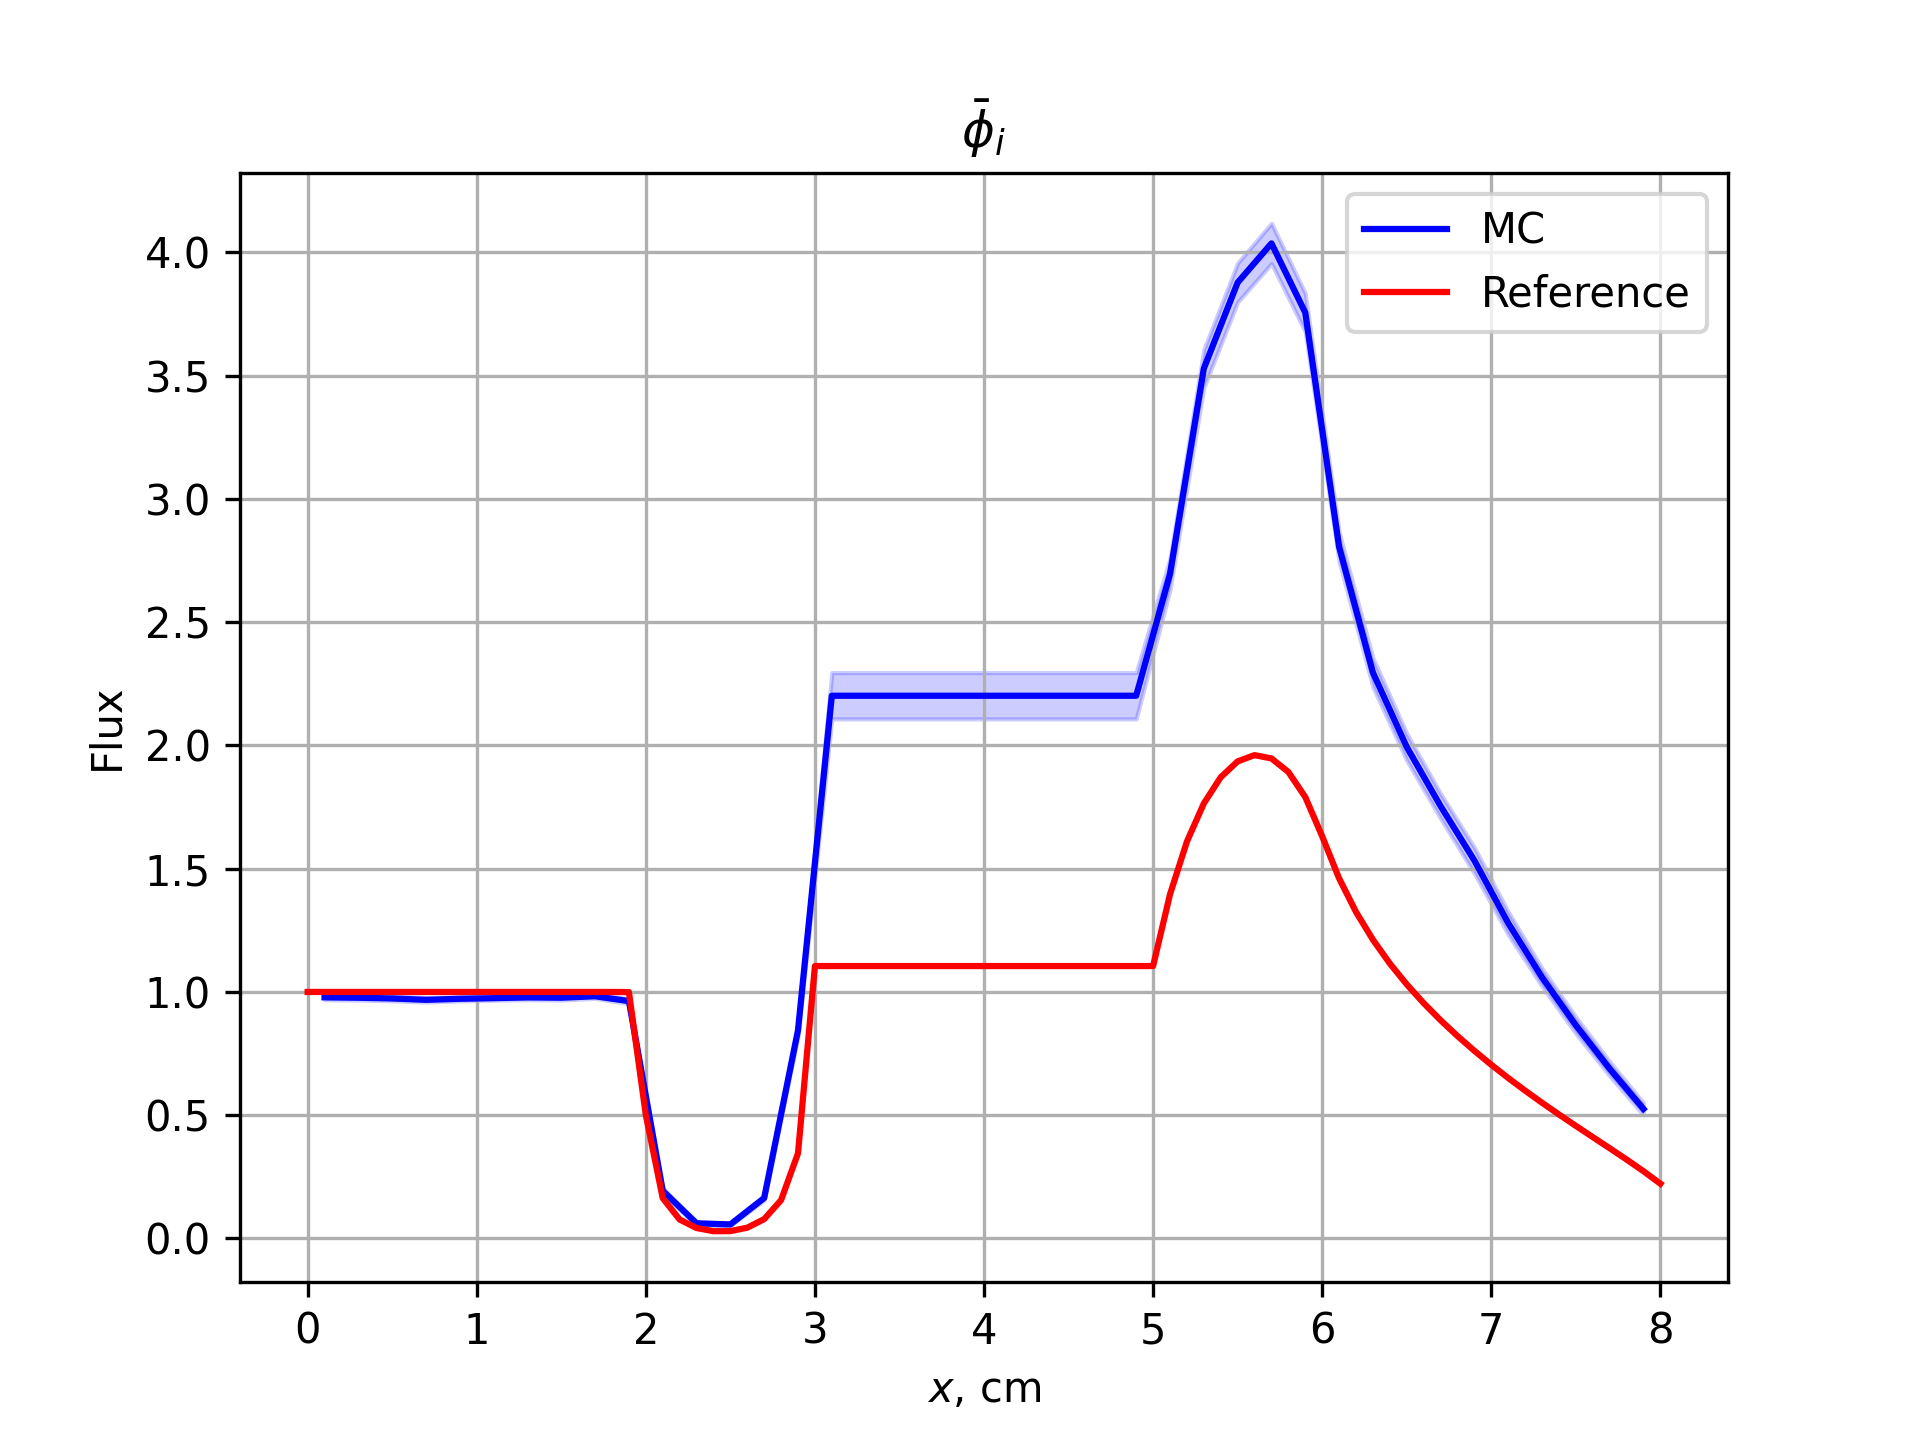
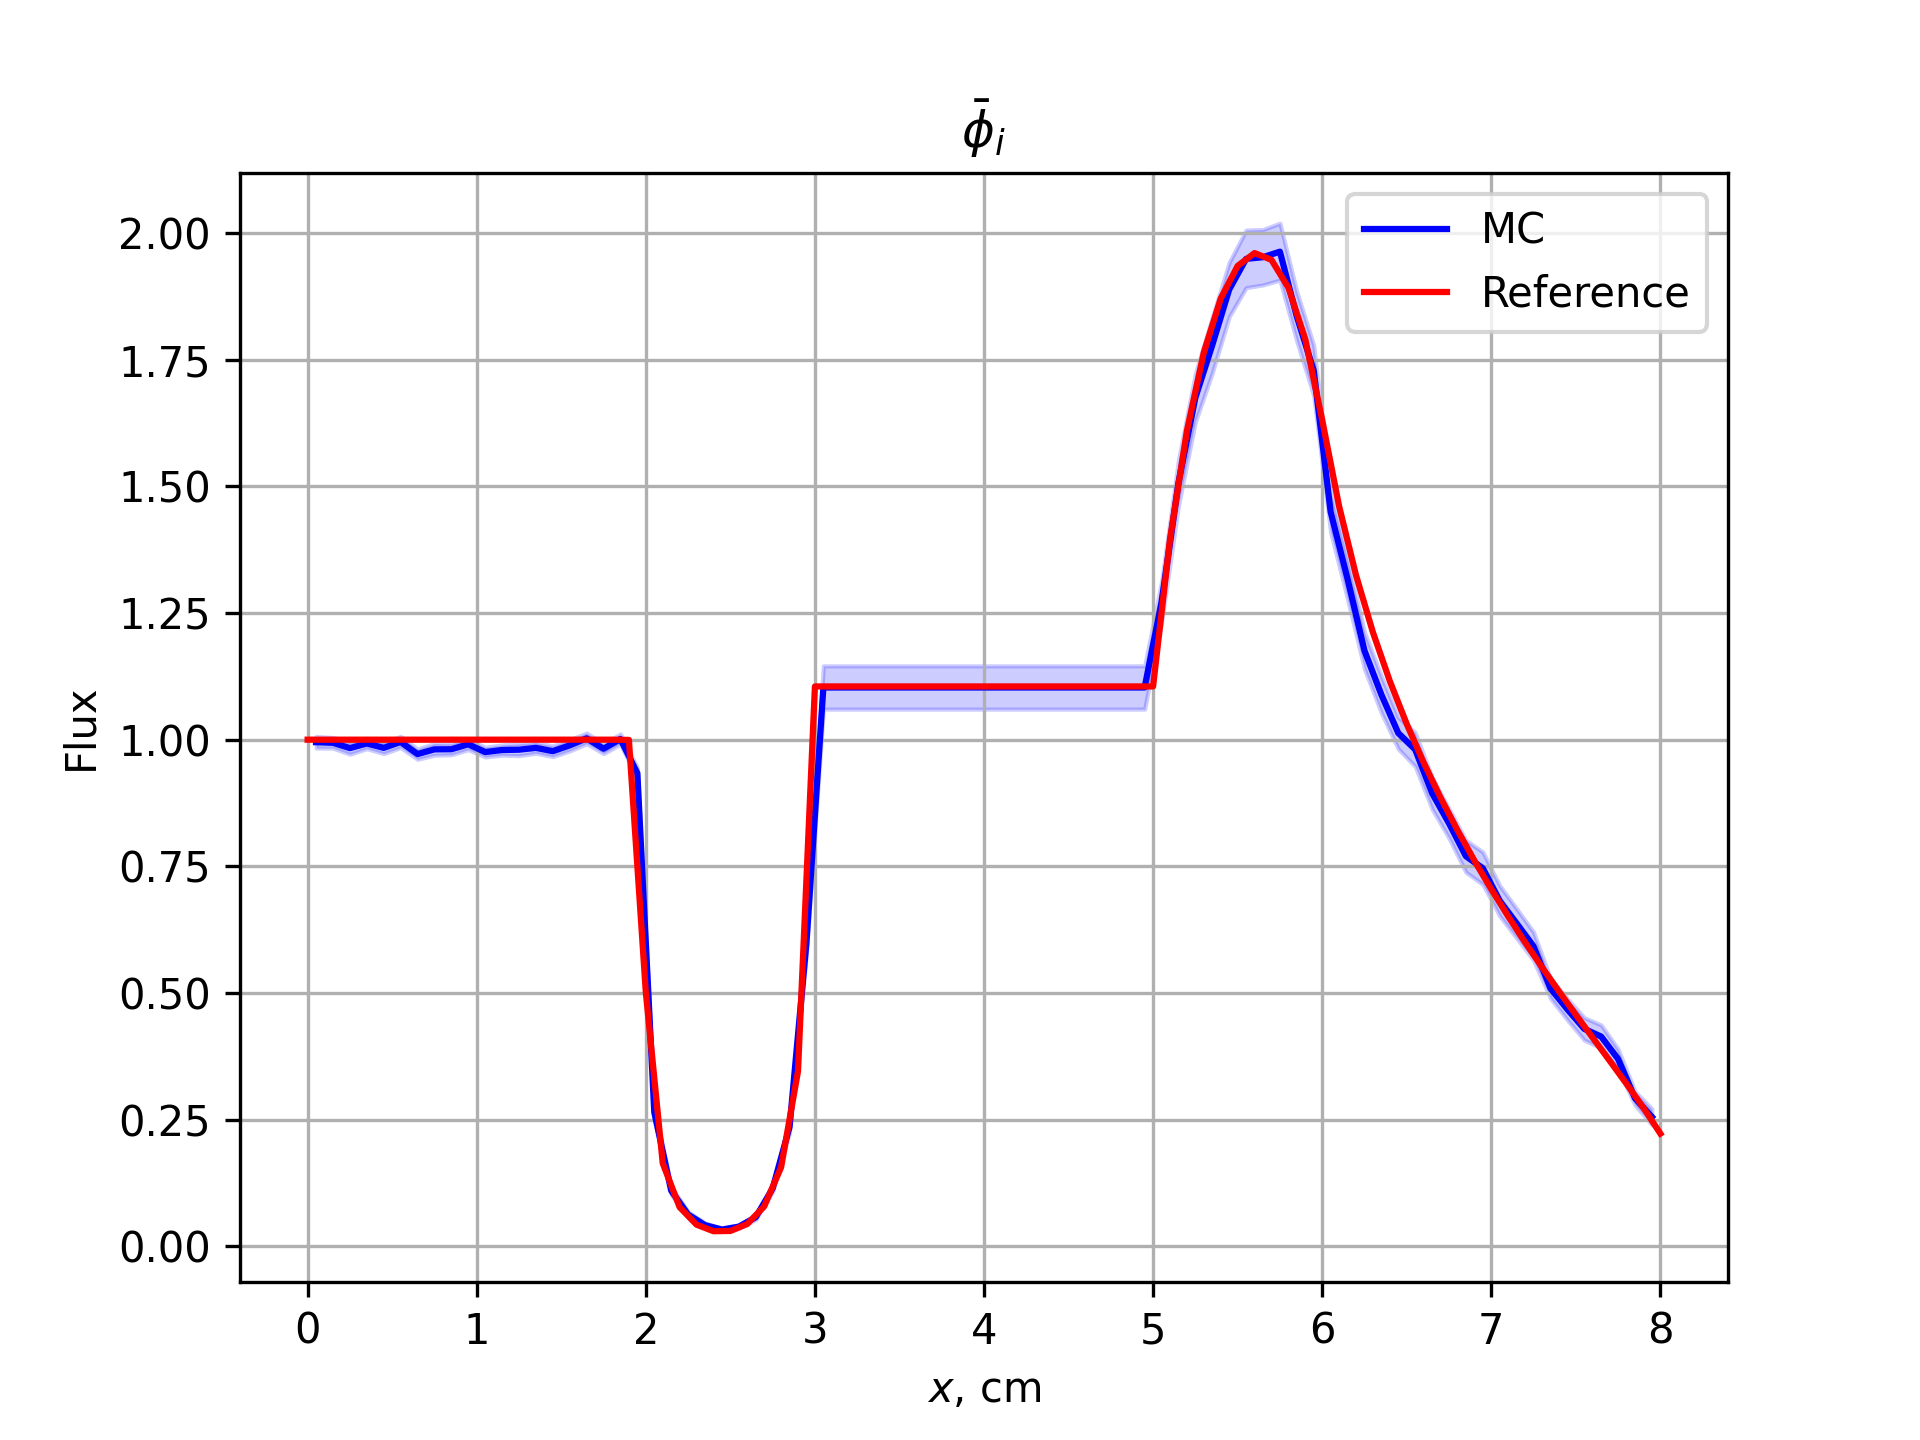
correct source strength

Changed region(s): [[0.0312, 0.1562, 0.9062, 0.875], [0.0625, 0.3125, 0.125, 0.375], [0.0625, 0.6562, 0.0938, 0.7188]]

diff --git a/analytical/reeds/input.py b/analytical/reeds/input.py
@@ -38,7 +38,7 @@ mcdc.source(
 mcdc.source(
     x=[5.0, 6.0],
     isotropic=True,
-    prob=1
+    prob=0.5
 )
 # =============================================================================
 # Set tally, setting, and run mcdc
@@ -47,12 +47,12 @@ mcdc.source(
 #Tally
 mcdc.tally.mesh_tally(
     scores=["flux"],
-    x=np.linspace(0.0, 8.0, 41),
+    x=np.linspace(0.0, 8.0, 81),
     mu=np.linspace(-1.0, 1.0, 9)
 )
 
 #Setting
-mcdc.setting(N_particle=10000, N_batch=20)
+mcdc.setting(N_particle=10000, N_batch=30)
 
 #Run
 mcdc.run()
